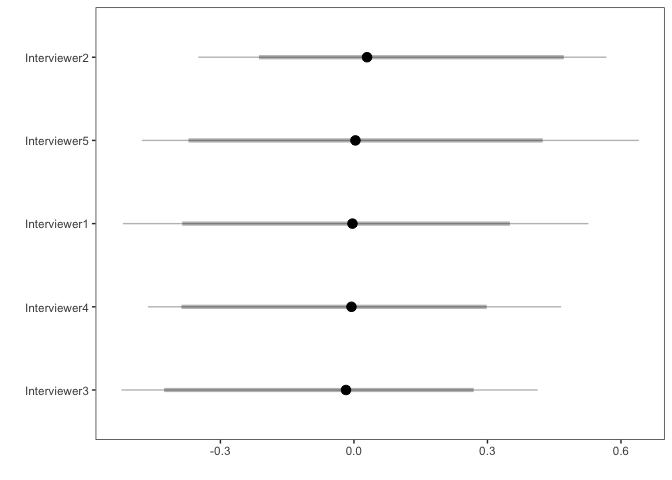
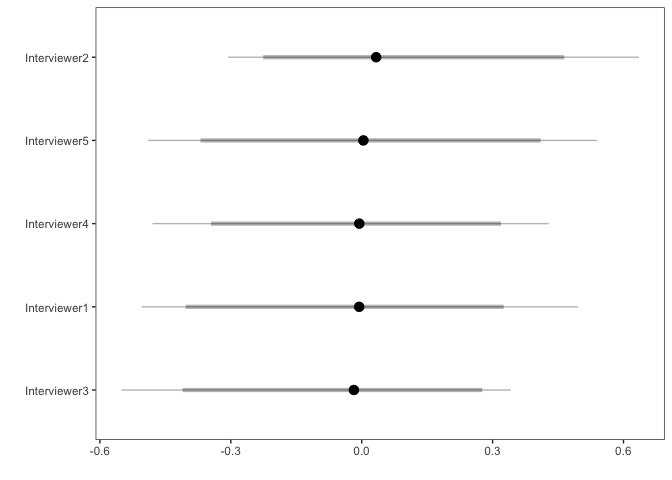
update

diff --git a/reports/predicting_attrition.md b/reports/predicting_attrition.md
@@ -1,6 +1,6 @@
 Modeling Attrition , Chile Reentry Study
 ================
-August 09, 2017
+August 10, 2017
 
 We use the baseline dataset to explore which factors seems to predict attrition, and to identify potential biases of the data.
 
@@ -10,7 +10,7 @@ Descriptives
 The total sample is 225.
 
 ``` r
-summary(dat[, .(age, kids, edu, mhealth)])
+summary(dat[, .(age, kids, edu, mhealth, score_mh, int_assessment)])
 ```
 
     ##       age             kids             edu            mhealth     
@@ -20,7 +20,15 @@ summary(dat[, .(age, kids, edu, mhealth)])
     ##  Mean   :36.12   Mean   : 2.573   Mean   : 8.511   Mean   :2.262  
     ##  3rd Qu.:42.00   3rd Qu.: 4.000   3rd Qu.:12.000   3rd Qu.:3.000  
     ##  Max.   :68.00   Max.   :11.000   Max.   :16.000   Max.   :5.000  
-    ##                                                    NA's   :4
+    ##                                                    NA's   :4      
+    ##     score_mh      int_assessment 
+    ##  Min.   :0.0000   Min.   :1.250  
+    ##  1st Qu.:0.6346   1st Qu.:3.000  
+    ##  Median :0.9719   Median :3.750  
+    ##  Mean   :1.0703   Mean   :3.486  
+    ##  3rd Qu.:1.4213   3rd Qu.:4.000  
+    ##  Max.   :3.7191   Max.   :4.000  
+    ##  NA's   :1        NA's   :9
 
 Modeling response first week
 ============================
@@ -28,7 +36,7 @@ Modeling response first week
 ### Is variance of response explained by the Interviewer?
 
 ``` r
-fit1 <- stan_glmer(c2 ~+ (1|id_int),
+fit1 <- stan_glmer(week ~+ (1|id_int),
                    data = dat,  family = binomial(link = "logit"))
 stan_caterpillar(fit1, pars = "b\\[\\(Intercept\\) id_int\\:[0-9]\\]",
                  pars_label = paste0("Interviewer", 1:5))
@@ -41,8 +49,10 @@ It doesn't seem to be the case!
 ### Predicting response using covariates
 
 ``` r
-fit1 <- stan_glmer(c2 ~ age + kids + edu +  mhealth + (1|id_int),
+fit1 <- stan_glmer(week ~ age + kids + edu +  score_mh +  residential_ins +  (1|id_int),
                    data = dat,  family = binomial(link = "logit"))
+
+summary(fit1)
 ```
 
 ``` r
@@ -51,7 +61,7 @@ posterior <- as.matrix(fit1)
 plot_title <- ggtitle("Posterior distributions",
                       "with medians and 80% intervals")
 mcmc_areas(posterior,
-           pars = c("age", "kids", "edu", "mhealth"),
+           pars = c("age", "kids", "edu", "score_mh", "residential_ins"),
            prob = 0.8) + plot_title
 ```
 
